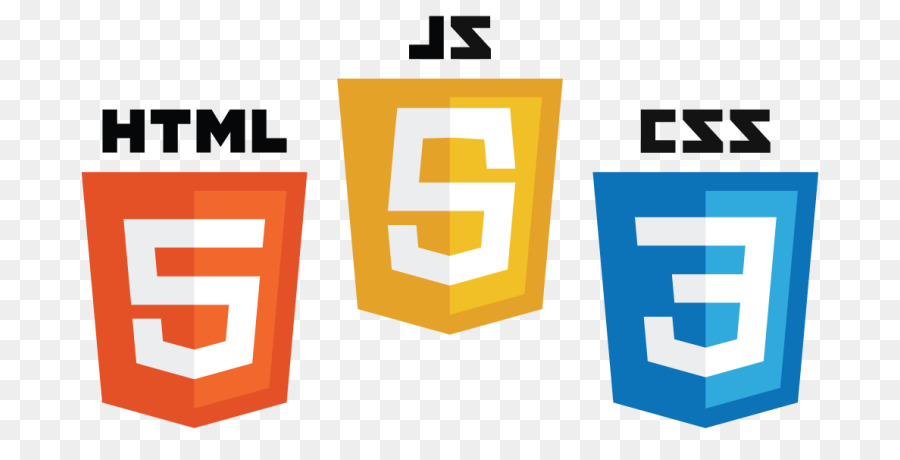
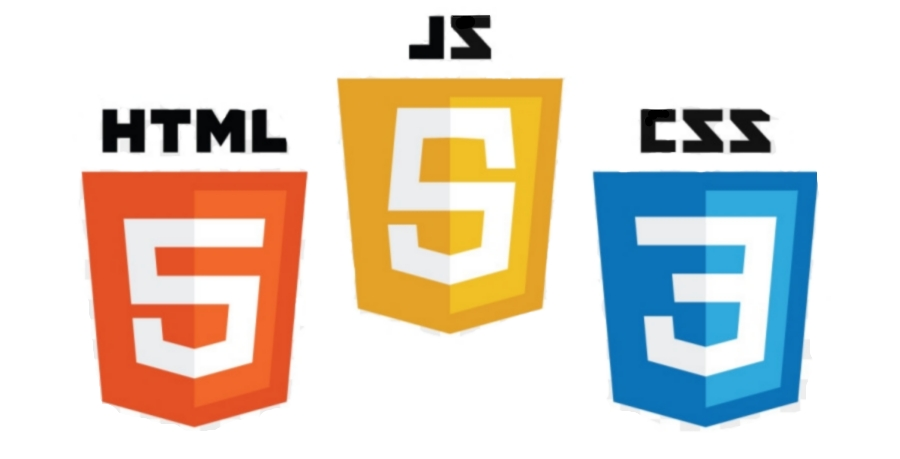
Version 2.5

diff --git a/Home/index.html b/Home/index.html
@@ -33,9 +33,7 @@
            <br><br>
           <div class="Tools">Herramientas del Proyecto<br></div>
 
-          <img src="HTML5.png" class="HTML5">
-          <img src="CSS3.png" class="CSS3">
-          <img src="JS.png" class="JS">
+          <img src="Simbolos.jpg" class="HTML5">
           </p>        
         </div> 
       </section>

diff --git a/Home/styles.css b/Home/styles.css
@@ -86,10 +86,7 @@ a {
   padding: 10px;
 }
 
-.HTML5, .CSS3, .JS{
-  width: 60px;
-  height: 60px;
-}
+
 
 .Tools{
   text-align: center;
